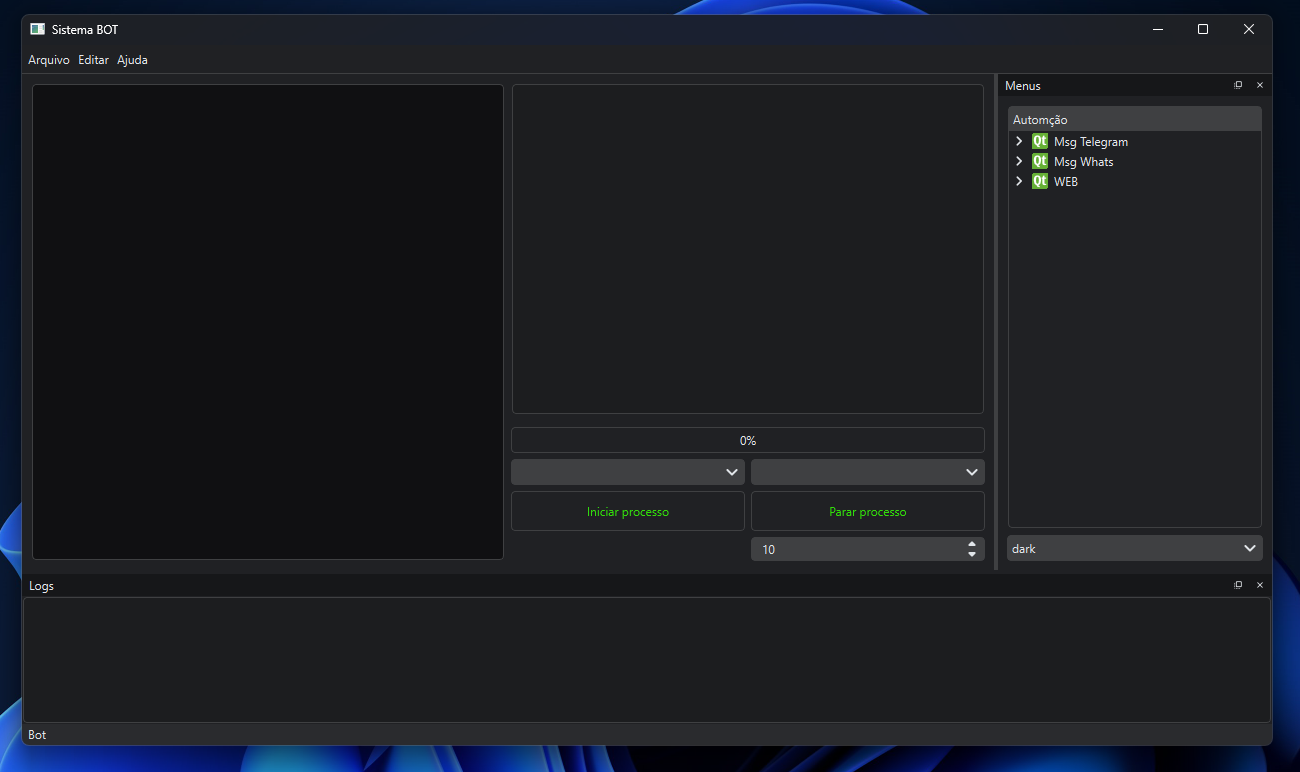
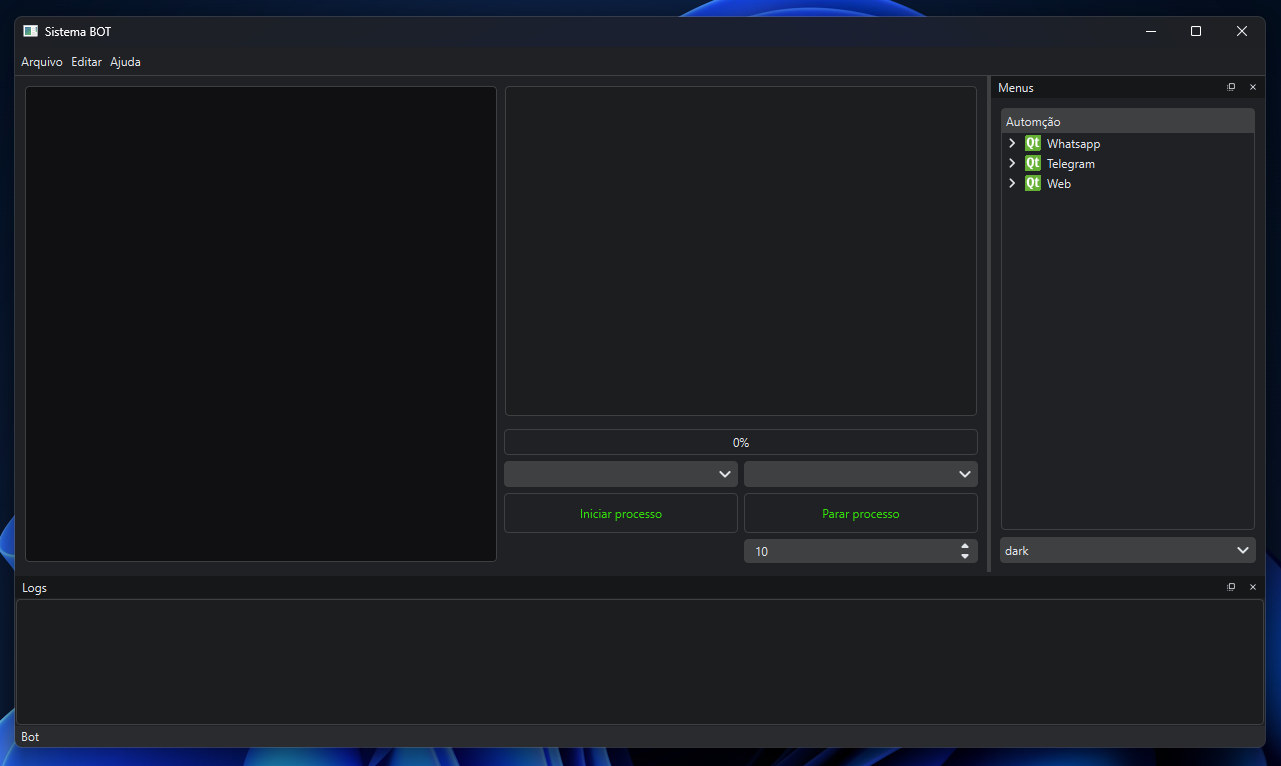
OK

Changed region(s): [[0.0, 0.0, 1.0, 1.0], [0.0, 0.0, 0.1249, 0.7807], [0.4996, 0.0, 0.7182, 0.03]]

diff --git a/src/view/mainView.py b/src/view/mainView.py
@@ -219,36 +219,36 @@ class MainView(QMainWindow):
         title_icon = self.style().standardIcon(title_pixmap)
 
         #----------------------------------
-        parent_item = QTreeWidgetItem(tree_widget, ["Msg Telegram"])
-        parent_item.setIcon(0, save_icon)
+        whats_item = QTreeWidgetItem(tree_widget, ["Whatsapp"])
+        whats_item.setIcon(0, save_icon)
 
-        child1 = QTreeWidgetItem(parent_item, ["Filho 1.1"])
+        child1 = QTreeWidgetItem(whats_item, ["Filho 1.1"])
         child1.setIcon(0,title_icon)
         neto_child1 = QTreeWidgetItem(child1, ["Neto 1.1.1"]).setIcon(0,title_icon)
         # neto_child1.setIcon(0,title_icon)
 
         QTreeWidgetItem(child1, ["Neto 1.1.2"]).setIcon(0,title_icon)
 
-        QTreeWidgetItem(parent_item, ["Filho 1.2"]).setIcon(0,title_icon)
-        QTreeWidgetItem(parent_item, ["Filho 1.3"]).setIcon(0,title_icon)
-        QTreeWidgetItem(parent_item, ["Filho 1.4"]).setIcon(0,title_icon)
+        QTreeWidgetItem(whats_item, ["Filho 1.2"]).setIcon(0,title_icon)
+        QTreeWidgetItem(whats_item, ["Filho 1.3"]).setIcon(0,title_icon)
+        QTreeWidgetItem(whats_item, ["Filho 1.4"]).setIcon(0,title_icon)
 
         #----------------------------------
-        parent_item2 = QTreeWidgetItem(tree_widget, ["Msg Whats"])
-        parent_item2.setIcon(0, save_icon)
-        QTreeWidgetItem(parent_item2, ["Filho 2.1"]).setIcon(0,title_icon)
-        QTreeWidgetItem(parent_item2, ["Filho 2.2"]).setIcon(0,title_icon)
-        QTreeWidgetItem(parent_item2, ["Filho 2.3"]).setIcon(0,title_icon)
-        QTreeWidgetItem(parent_item2, ["Filho 2.4"]).setIcon(0,title_icon)
-        QTreeWidgetItem(parent_item2, ["Filho 2.5"]).setIcon(0,title_icon)
+        telegram_item = QTreeWidgetItem(tree_widget, ["Telegram"])
+        telegram_item.setIcon(0, save_icon)
+        QTreeWidgetItem(telegram_item, ["Filho 2.1"]).setIcon(0,title_icon)
+        QTreeWidgetItem(telegram_item, ["Filho 2.2"]).setIcon(0,title_icon)
+        QTreeWidgetItem(telegram_item, ["Filho 2.3"]).setIcon(0,title_icon)
+        QTreeWidgetItem(telegram_item, ["Filho 2.4"]).setIcon(0,title_icon)
+        QTreeWidgetItem(telegram_item, ["Filho 2.5"]).setIcon(0,title_icon)
 
        #----------------------------------
-        parent_item3 = QTreeWidgetItem(tree_widget, ["WEB"])
-        parent_item3.setIcon(0, save_icon)
-        QTreeWidgetItem(parent_item3, ["Filho 3.1"]).setIcon(0,title_icon)
-        QTreeWidgetItem(parent_item3, ["Filho 3.2"]).setIcon(0,title_icon)
+        web_item = QTreeWidgetItem(tree_widget, ["Web"])
+        web_item.setIcon(0, save_icon)
+        QTreeWidgetItem(web_item, ["Filho 3.1"]).setIcon(0,title_icon)
+        QTreeWidgetItem(web_item, ["Filho 3.2"]).setIcon(0,title_icon)
 
-        tree_widget.expandAll()
+        whats_item.setExpanded(True)
 
     def on_item_clicked(self, item, column):
         print(f"Item clicado: {item.text(column)}")
